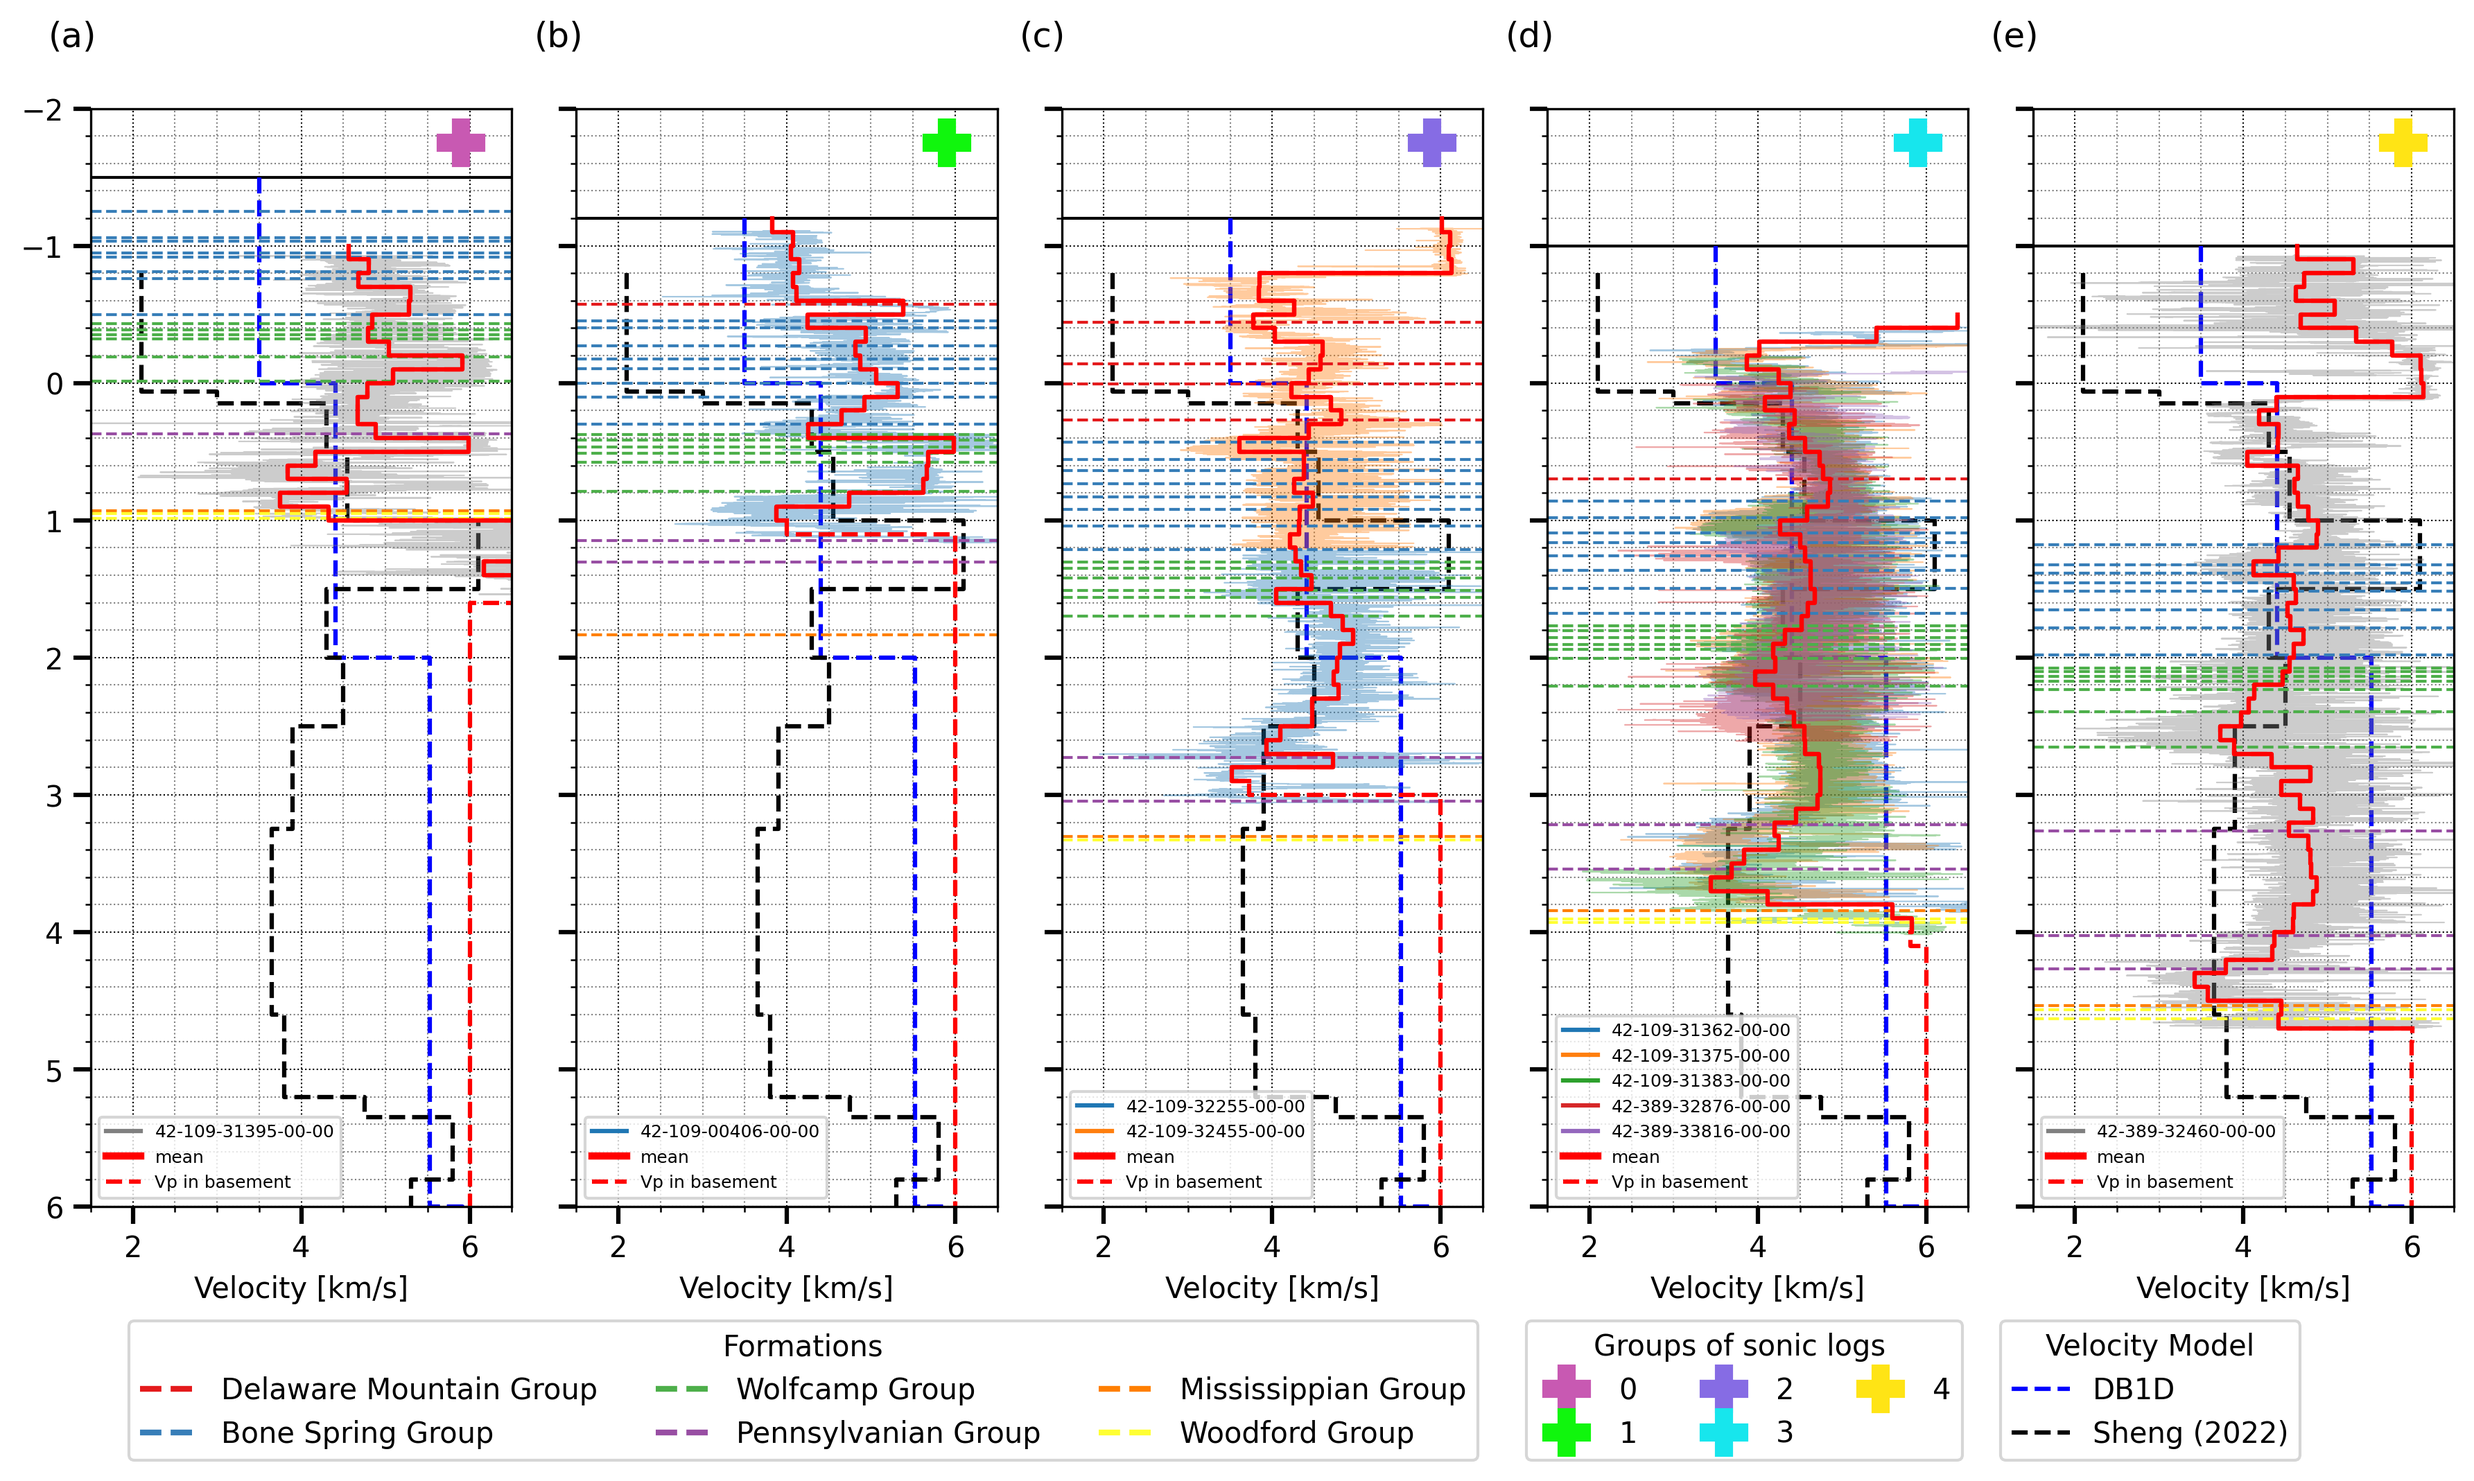
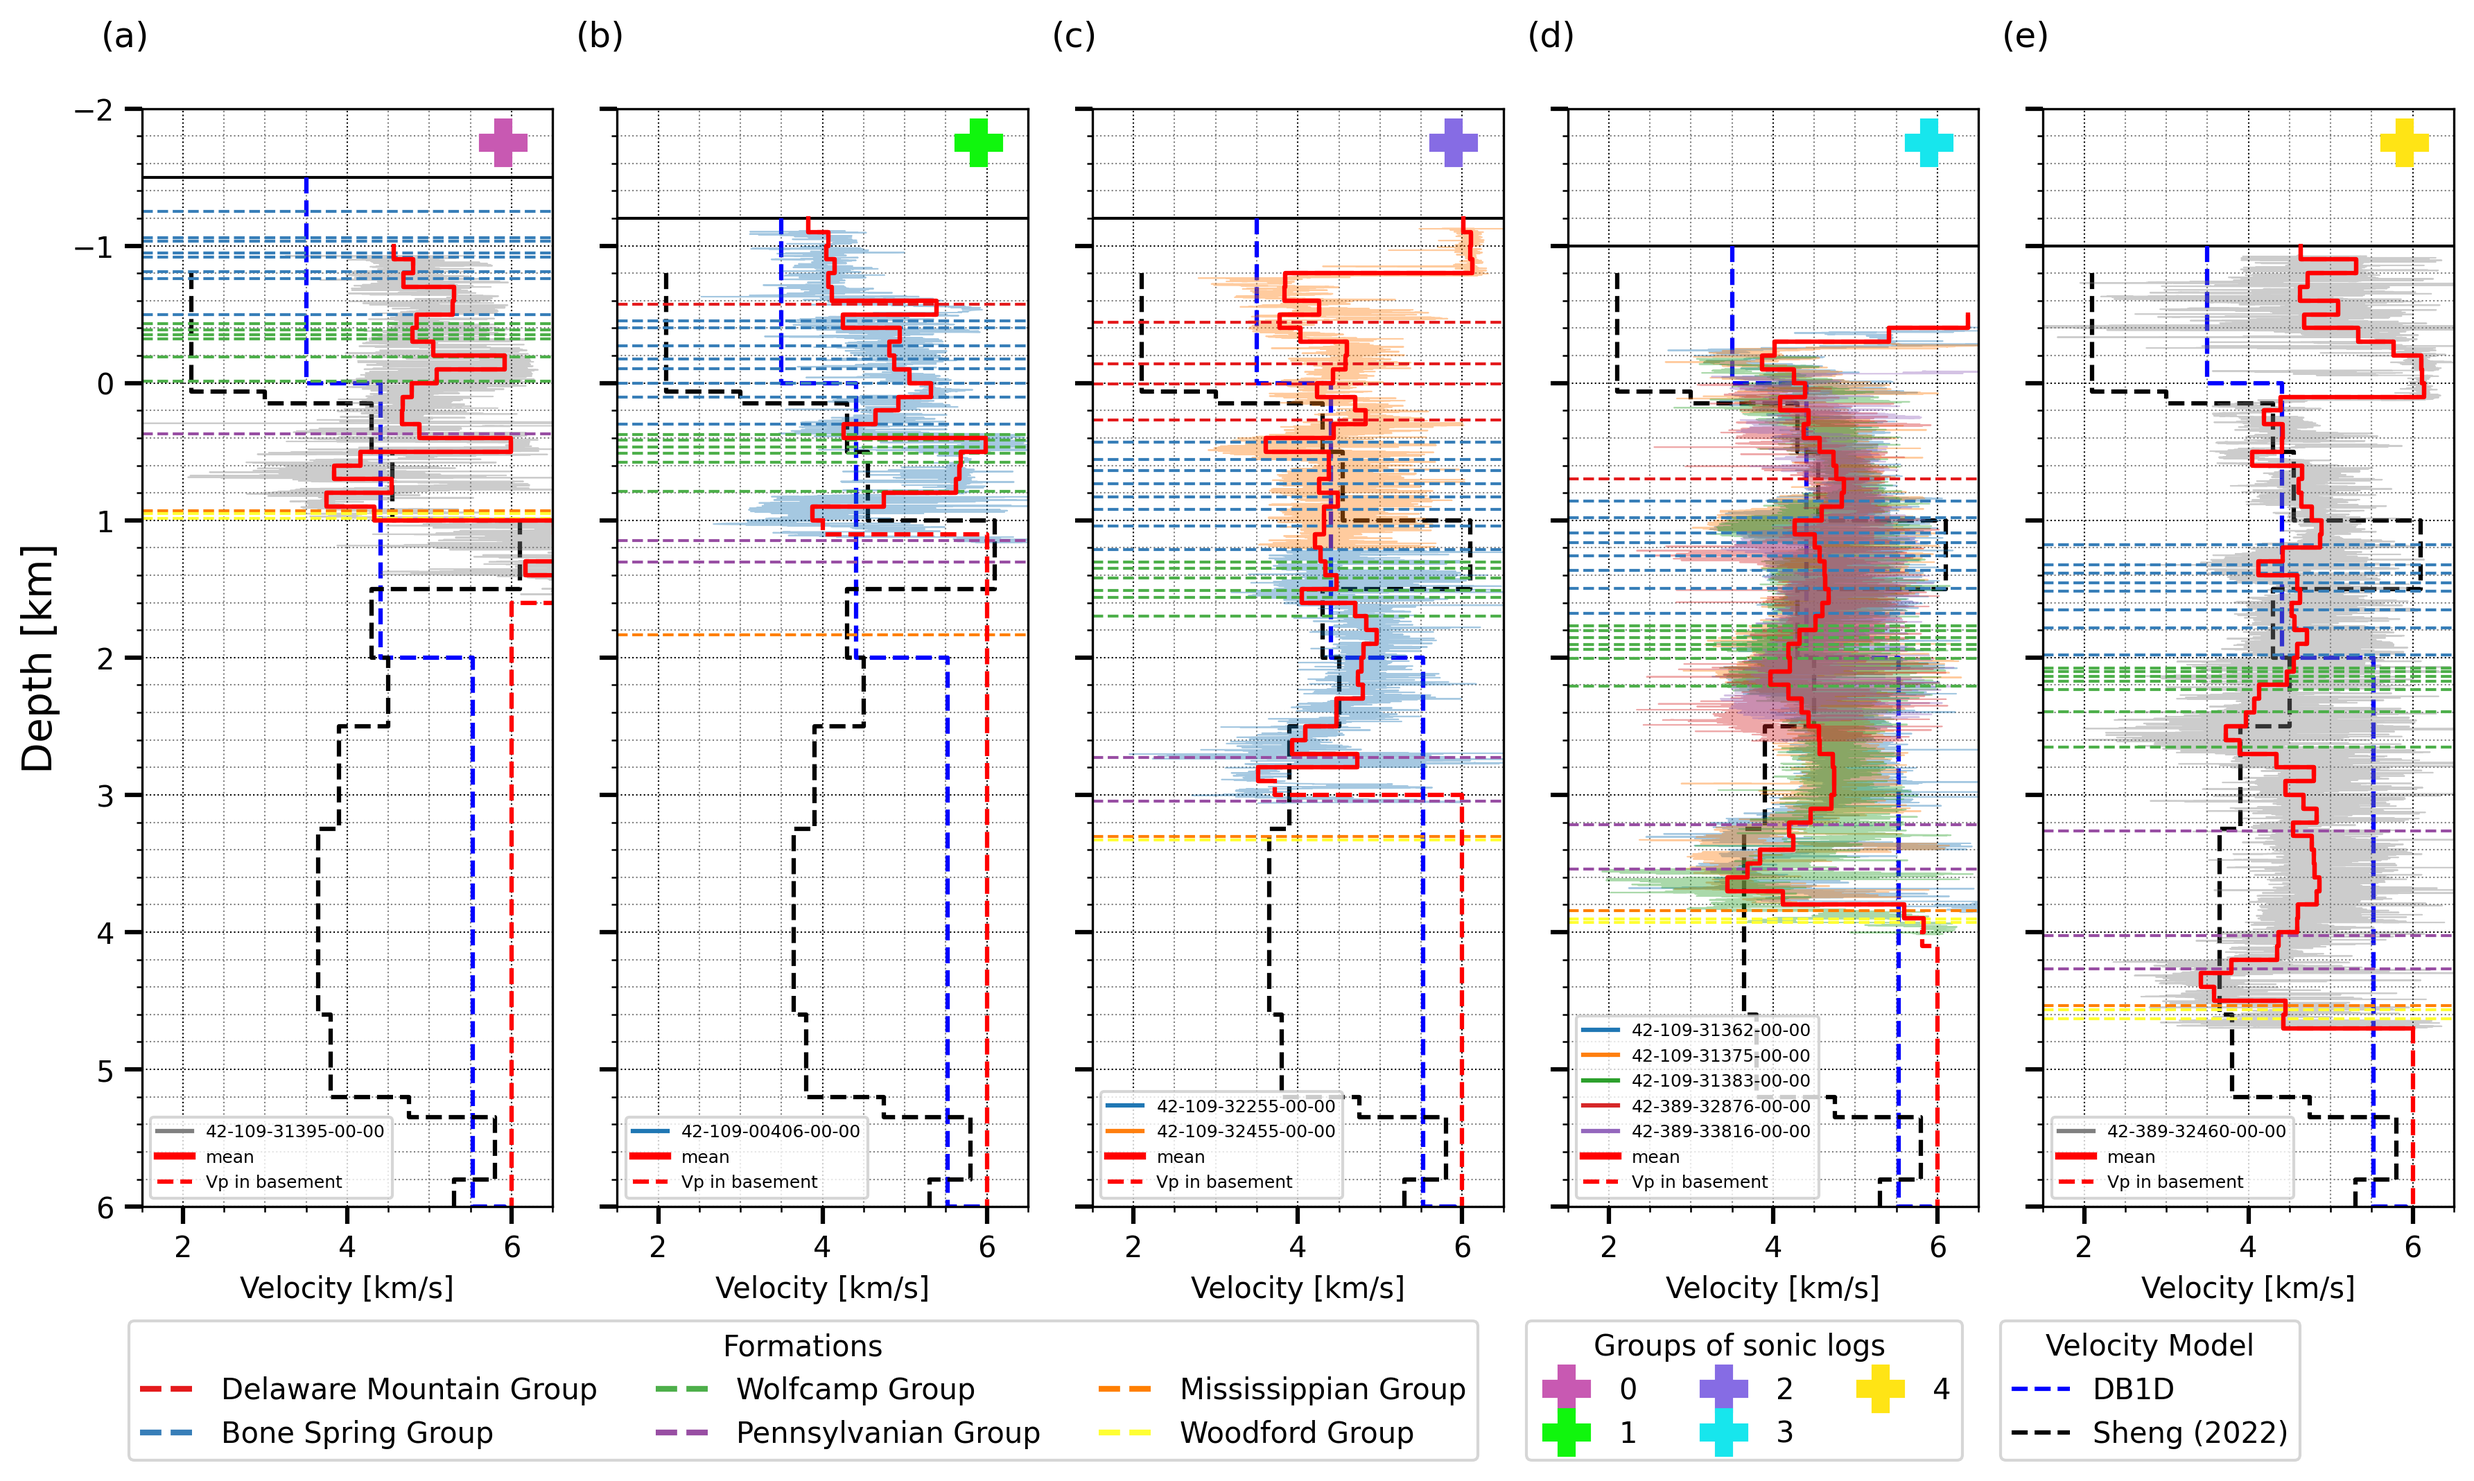
vp sonic log

diff --git a/02032024/project/vp/sonic_update.py b/02032024/project/vp/sonic_update.py
@@ -139,6 +139,7 @@ ax_rl1,lg1_rl1,lg2_rl1 = well_fig(data_rl1,formations,form_rl1,
          smooth_interval=precision,
          
          )
+ax_rl1.set_ylabel("Depth [km]", fontsize=14)
 # exit()
 marker_0 = ax_rl1.plot(text_loc2[0], text_loc2[1],
           marker='P', markersize=16,
@@ -225,6 +226,7 @@ fig.legend(handles=lg2_3, loc="upper left",
            fontsize=10, ncol=1, bbox_to_anchor=(0.8, 0.2))
 
 # Finalize layout and save or display the plot.
+
 fig.tight_layout()
 fig.subplots_adjust(bottom=0.26)
 fig.savefig(output_fig, dpi=300, bbox_inches='tight')
